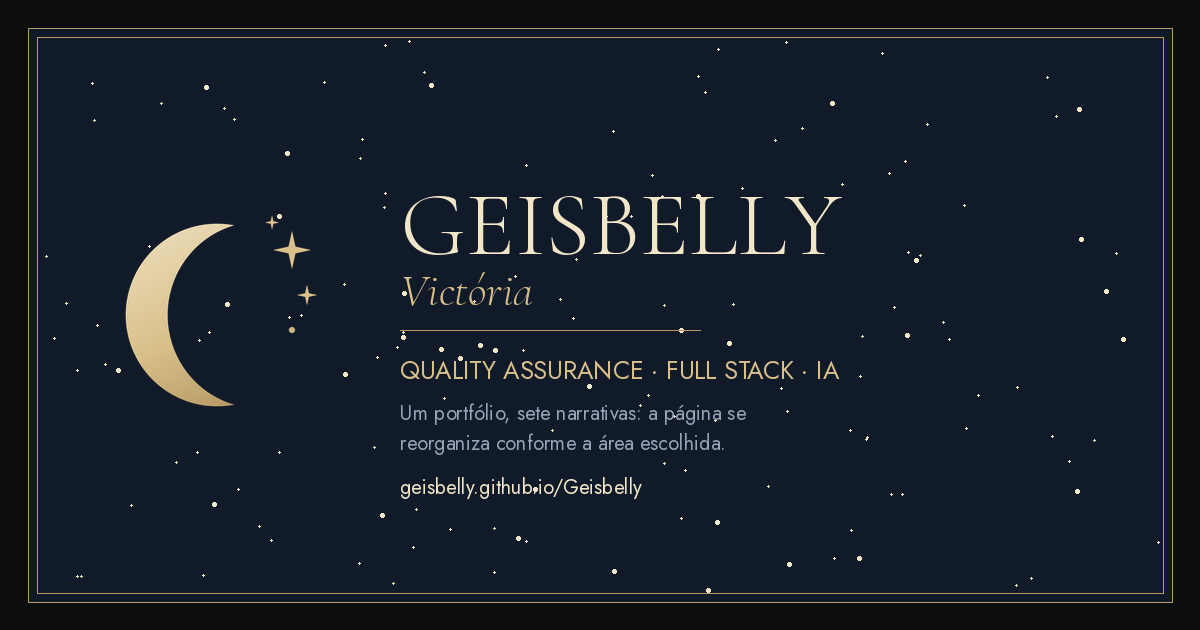
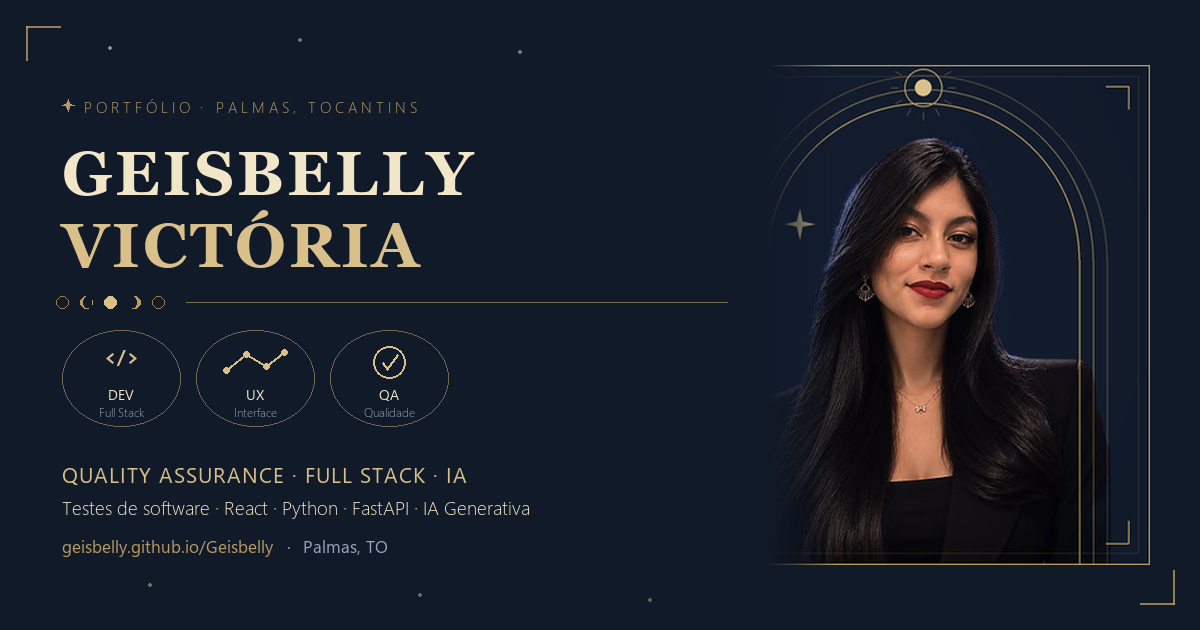
Melhora meta tags e og-image para SEO e compartilhamento social
Deixa title, og:title/description e twitter:title/description mais diretos
(cargo, stack e proposta de valor explicitos). Substitui a arte do
og-image por uma versao com foto de perfil, no mesmo estilo da capa do
LinkedIn (moldura em arco dourada, fases da lua).

diff --git a/index.html b/index.html
@@ -17,18 +17,18 @@
 <meta property="og:site_name" content="Geisbelly Victória — Portfólio">
 <meta property="og:locale" content="pt_BR">
 <meta property="og:url" content="https://geisbelly.github.io/Geisbelly/">
-<meta property="og:title" content="Geisbelly Victória — QA · Full Stack · IA">
-<meta property="og:description" content="Um portfólio, sete narrativas: a página se reorganiza conforme a área escolhida. 13 projetos com case completo, do requisito ao deploy.">
+<meta property="og:title" content="Geisbelly Victória — Analista de QA e Desenvolvedora Full Stack">
+<meta property="og:description" content="Testes de software, homologação, React, TypeScript, Python, FastAPI e IA Generativa. Palmas, Tocantins. 13 projetos com case completo, do requisito ao deploy.">
 <meta property="og:image" content="https://geisbelly.github.io/Geisbelly/og-image.png">
 <meta property="og:image:width" content="1200">
 <meta property="og:image:height" content="630">
-<meta property="og:image:alt" content="Lua dourada sobre céu estrelado com o nome Geisbelly Victória">
+<meta property="og:image:alt" content="Geisbelly Victória — QA, Full Stack e IA. Testes de software, React, Python, FastAPI e IA Generativa. Palmas, Tocantins.">
 <meta property="profile:first_name" content="Geisbelly">
 <meta property="profile:last_name" content="Victória">
 
 <meta name="twitter:card" content="summary_large_image">
-<meta name="twitter:title" content="Geisbelly Victória — QA · Full Stack · IA">
-<meta name="twitter:description" content="Um portfólio, sete narrativas: a página se reorganiza conforme a área escolhida.">
+<meta name="twitter:title" content="Geisbelly Victória — Analista de QA e Desenvolvedora Full Stack">
+<meta name="twitter:description" content="Testes de software, React, Python, FastAPI e IA Generativa. Palmas, Tocantins. Portfólio com 13 projetos e case completo.">
 <meta name="twitter:image" content="https://geisbelly.github.io/Geisbelly/og-image.png">
 
[1 lines of base64/hex data omitted]
@@ -36,7 +36,7 @@
 <link rel="icon" type="image/png" sizes="512x512" href="moon-512.png">
 <link rel="apple-touch-icon" href="apple-touch-icon.png">
 <link rel="manifest" href="site.webmanifest">
-<title>Geisbelly Victória — Portfólio</title>
+<title>Geisbelly Victória — QA, Full Stack &amp; IA Generativa | Palmas, TO</title>
 <link rel="preconnect" href="https://fonts.googleapis.com">
 <link rel="preconnect" href="https://fonts.gstatic.com" crossorigin>
 <link rel="preload" as="style" href="https://fonts.googleapis.com/css2?family=Cormorant:ital,wght@0,300;0,400;0,500;1,300;1,400&family=Cinzel:wght@400;500&family=Yeseva+One&family=Italiana&family=Jost:wght@300;400;500&display=swap">
